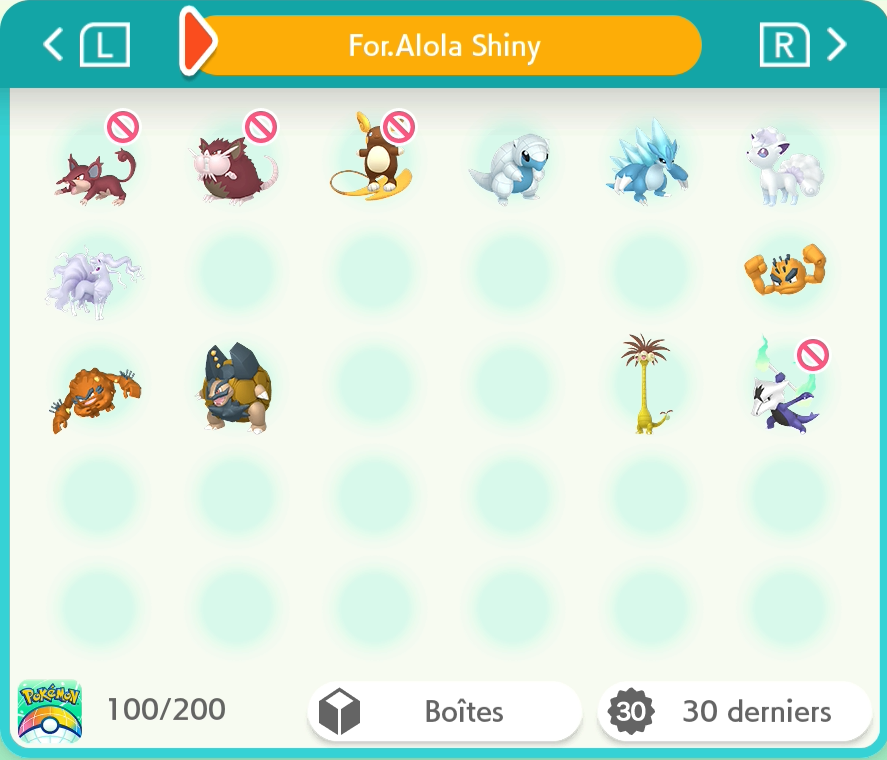
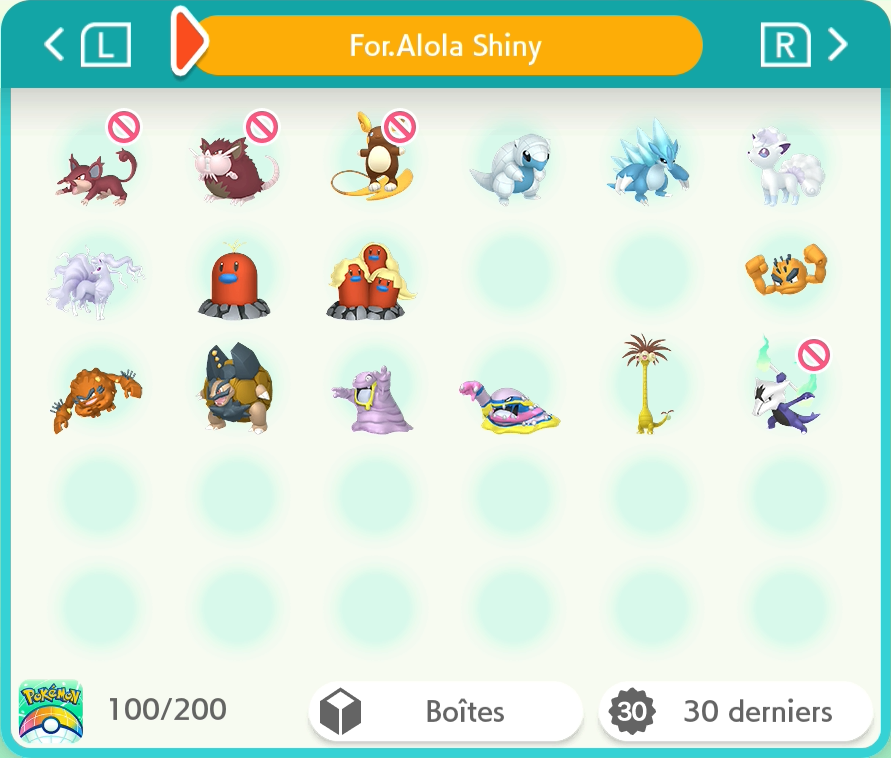
Formes d'Alola : Tadmorv, Grotadmorv, Taupiqueur & Triopikeur

diff --git a/README.md b/README.md
@@ -2,7 +2,7 @@
 
 Pokémon-Elément-Sh -> <a href="https://www.pokemon-element-sh.fr/profil/karyno21" target="_blank">Karyno21</a>
 
-↓ Dernière Update le 28/05/2026 à 4h58 ↓
+↓ Dernière Update le 28/05/2026 à 8h17 ↓
 ### Dex National [246/999] +10
 
 | Gen | Prog | Notes |
@@ -17,11 +17,11 @@ Pokémon-Elément-Sh -> <a href="https://www.pokemon-element-sh.fr/profil/karyno
 |8G|27/90|+5 Distrib Zacian & Éthernatos, Fantyrm, Dispareptil & Lanssorien|
 |9G|43/108|+1 Terraiste|
 
-### Formes Régionales [35/58] +16
+### Formes Régionales [39/58] +20
 
 | Forme | Prog | Notes |
 |:--:|:--:|---|
-|Alola|12/18|+11 Familles de Rattata / Goupix / Racaillou / Sabelette, Raichu & Noadkoko|
+|Alola|16/18|+13 Familles de Rattata / Goupix / Racaillou / Sabelette / Tadmorv / Taupiqueur, Raichu & Noadkoko|
 |Galar|6/19|+6 Famille de Ramoloss & Distrib des oiseaux légendaire de Galar|
 |Hisui|17/17|Complété|
 |Paldea|3/4|+2 Axoloto & Tauros Aquatique|
